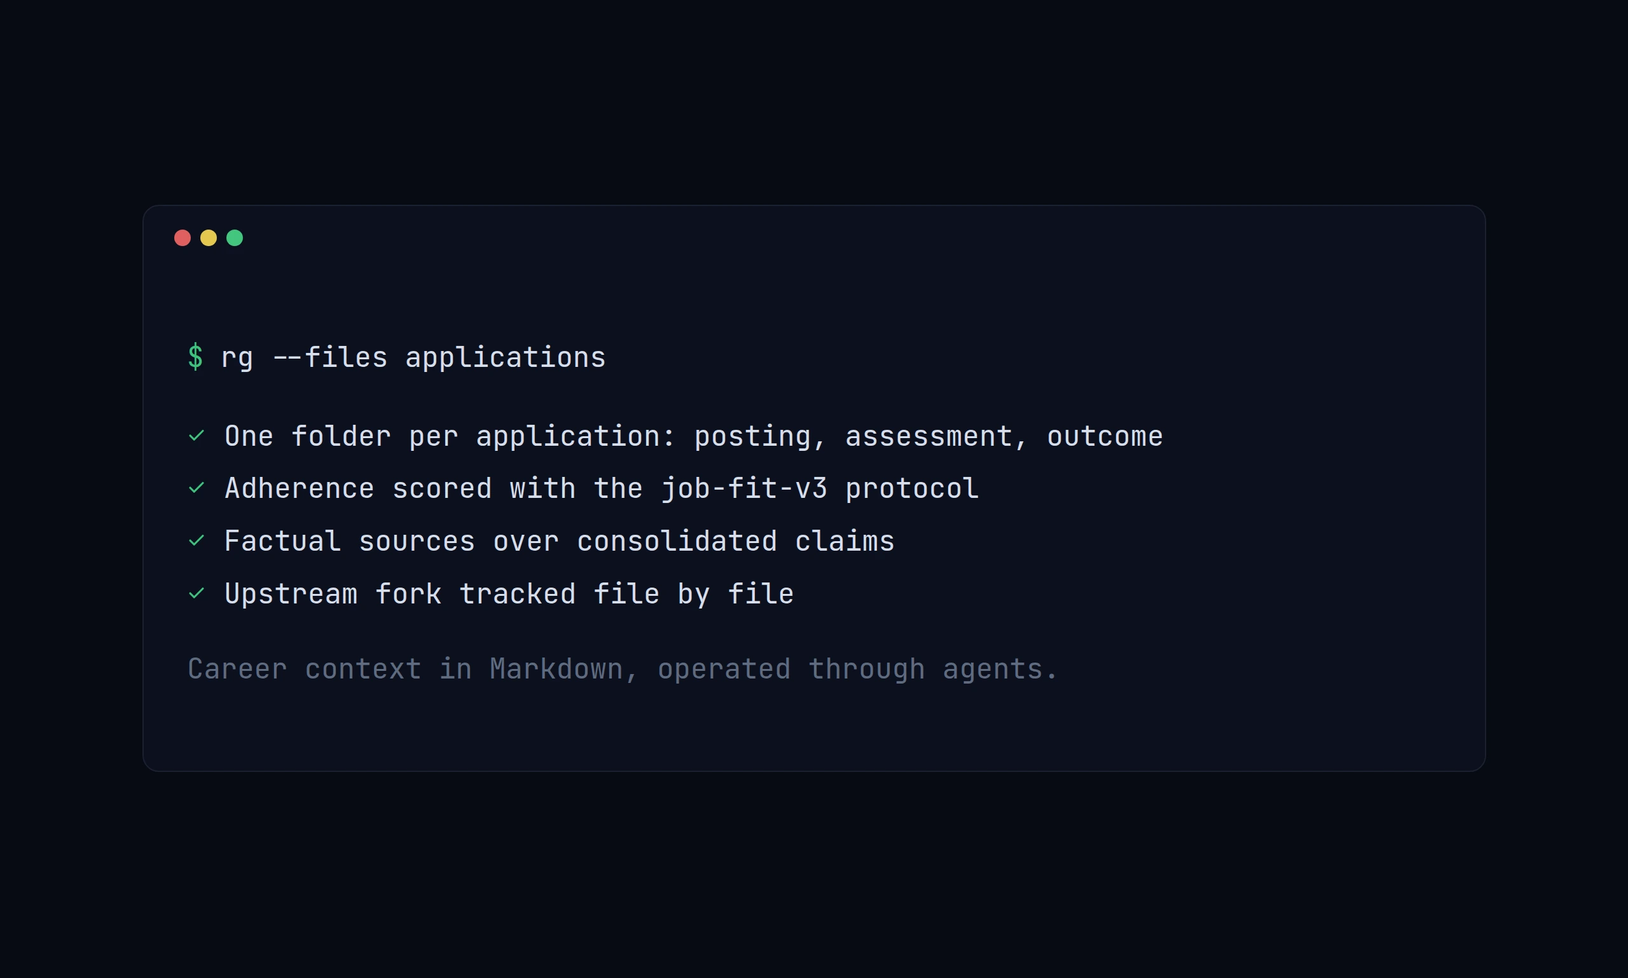
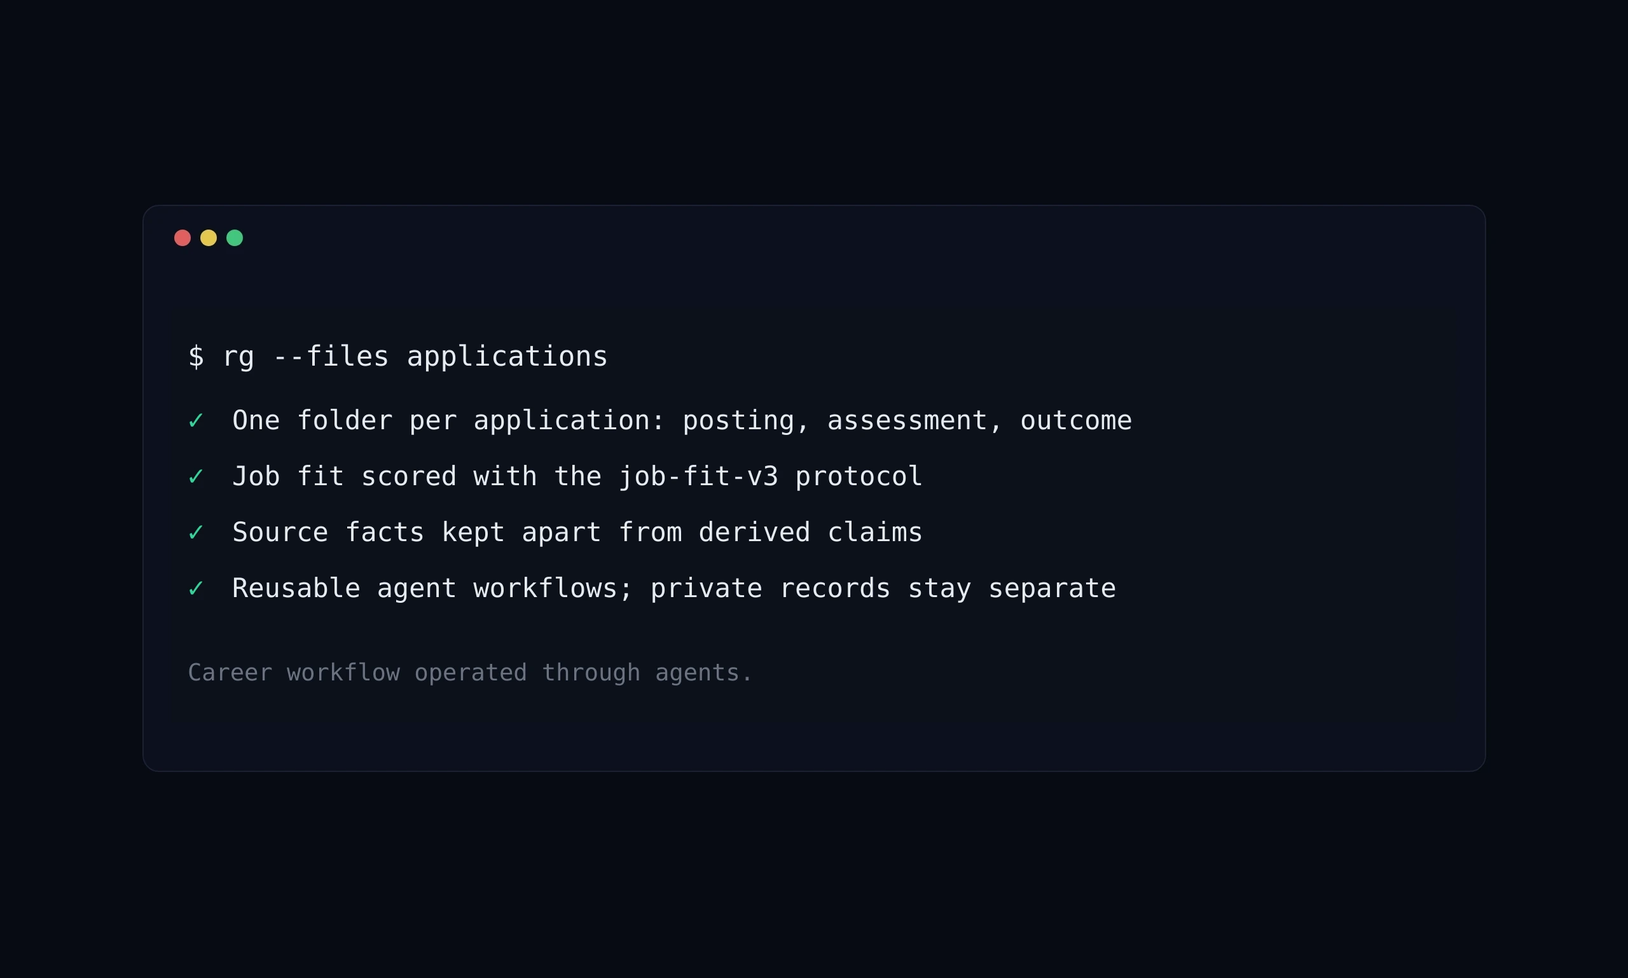
content(projects): align cases with current project facts (#61)

diff --git a/src/content/projects/skills/index.md b/src/content/projects/skills/index.md
@@ -1,19 +1,19 @@
 ---
 title: Engineering Skills
-description: Four open-source agent skills for engineering documentation, technical SEO, content review and web accessibility, with scoped sources and automated plugin releases.
+description: Three open-source agent skills for technical SEO, search content, and web accessibility, built around evidence and repeatable checks.
 date: 2026-10-16
 tags: AI agents, Developer tooling, Python, GitHub Actions, Accessibility, SEO
 link: https://github.com/andre-lmarinho/skills
 images:
   01-cover.webp:
-    alt: Engineering Skills installation command and four review workflows
+    alt: Terminal card with the installation command and names of the three current skills
 ---
 
 ## Context
 
-An agent reviewing documentation needs to check commands against the implementation. An accessibility review needs to exercise the interaction. A search audit needs to distinguish a page that can be fetched from one that has actually been indexed. These tasks need different evidence, even when they happen in the same repository.
+I built this collection around a simple rule: each review should use evidence that fits the question. A technical SEO audit must distinguish a page that can be fetched from one that is indexed. A content review checks whether claims are useful and supported. An accessibility review tests the interaction, not just its markup.
 
-I built Engineering Skills to make those review decisions reusable across projects. The collection has four independently installable skills: `engineering-docs`, `technical-seo`, `search-content-review` and `web-accessibility`.
+The repository now contains three independent skills: `technical-seo`, `search-content-review`, and `web-accessibility`. Each can be installed on its own through the Skills CLI, or used through the collection plugin.
 
 ## My role
 
@@ -21,14 +21,13 @@ I created and maintain the collection. I defined each skill's scope, wrote its w
 
 ## Scope
 
-The skills cover different engineering tasks:
+The skills turn those principles into distinct workflows:
 
-- `engineering-docs` checks what an engineer needs to do or understand, preserving contracts such as defaults, precedence and failure behavior while shortening the prose.
 - `technical-seo` follows public pages from source to HTTP response and rendered output, including crawling controls, metadata, social images and optional Markdown discovery.
 - `search-content-review` checks whether a passage contributes useful information, supports its claims and remains accurate when read outside its surrounding page.
 - `web-accessibility` reviews complete interactions using applicable WCAG criteria, browser behavior and assistive technology when available.
 
-Each skill includes its own references. Users can install one through the Skills CLI or install the collection as a plugin. The public repository also provides a [versioned release ZIP](https://github.com/andre-lmarinho/skills/releases/tag/v0.1.0). That October 15 release predates the October 16 revisions linked in this case.
+Each skill includes references for the parts of a review that need more detail. The current branch removed `engineering-docs` on November 22, 2026. The earlier [v0.1.0 release ZIP](https://github.com/andre-lmarinho/skills/releases/tag/v0.1.0) predates that change and contains the previous four-skill collection.
 
 ## Decisions
 
@@ -36,17 +35,17 @@ Each skill includes its own references. Users can install one through the Skills
 
 The main `SKILL.md` contains the decisions that apply throughout a review. Conditional details live beside it. For example, technical SEO has separate references for media and agent discovery; accessibility has checks grouped by the affected interface.
 
-This lets each skill work alone. A documentation review does not require installing the search or accessibility skills, and the main workflow does not reproduce every supporting checklist. The [repository conventions](https://github.com/andre-lmarinho/skills/blob/289a6e5a73cede26a6002cdac7d4dd3c7d1c2f84/AGENTS.md) define that boundary.
+This lets each skill work alone, without making a review depend on the other skills or copying every supporting checklist into the main workflow. The [repository conventions](https://github.com/andre-lmarinho/skills/blob/f8239030fb7e24444e42b53a08ce0aaeb06c2bd2/AGENTS.md) define that boundary.
 
 ### Preserve the authority and scope of each source
 
 The source files distinguish standards, informative guidance, provider behavior and local review judgments. A technique demonstrated by one website does not become a requirement for every website.
 
-The [technical SEO reference](https://github.com/andre-lmarinho/skills/blob/289a6e5a73cede26a6002cdac7d4dd3c7d1c2f84/skills/technical-seo/AGENT-DISCOVERY.md) treats `llms-full.txt` as a choice for a bounded reading task. The [accessibility checks](https://github.com/andre-lmarinho/skills/blob/289a6e5a73cede26a6002cdac7d4dd3c7d1c2f84/skills/web-accessibility/CHECKS.md) require checking a criterion's applicability and exceptions before reporting a failure.
+The [technical SEO reference](https://github.com/andre-lmarinho/skills/blob/f8239030fb7e24444e42b53a08ce0aaeb06c2bd2/skills/technical-seo/AGENT-DISCOVERY.md) treats `llms-full.txt` as a choice for a bounded reading task. The [accessibility checks](https://github.com/andre-lmarinho/skills/blob/f8239030fb7e24444e42b53a08ce0aaeb06c2bd2/skills/web-accessibility/CHECKS.md) require checking a criterion's applicability and exceptions before reporting a failure.
 
 ### Test distribution separately from review quality
 
-The validation workflow checks skill metadata and plugin manifests. Three [Python tests](https://github.com/andre-lmarinho/skills/blob/289a6e5a73cede26a6002cdac7d4dd3c7d1c2f84/scripts/test_package.py) check archive contents, synchronized versions and rejection of mismatched manifests or symlinks. These checks can catch a broken package; they cannot establish that an agent will make the right recommendation.
+The validation workflow checks skill metadata and plugin manifests. Three [Python tests](https://github.com/andre-lmarinho/skills/blob/f8239030fb7e24444e42b53a08ce0aaeb06c2bd2/scripts/test_package.py) check archive contents, synchronized versions and rejection of mismatched manifests or symlinks. These checks can catch a broken package; they cannot establish that an agent will make the right recommendation.
 
 For changes to a skill's decisions, the contribution instructions require an independent agent to exercise a realistic task in a temporary workspace. Those evaluations are a review procedure; the repository does not contain a repeatable behavioral test suite.
 
@@ -54,6 +53,6 @@ For changes to a skill's decisions, the contribution instructions require an ind
 
 The release workflow validates the repository, synchronizes the portable and Claude-compatible manifest versions, builds the ZIP, and pushes the release commit and tag atomically. It checks whether `main` changed during preparation and stops if the release would use an outdated base.
 
-The [workflow](https://github.com/andre-lmarinho/skills/blob/289a6e5a73cede26a6002cdac7d4dd3c7d1c2f84/.github/workflows/release.yml) publishes GitHub releases. Official directory submissions still depend on their separate account and review processes. I kept those boundaries explicit in the [release documentation](https://github.com/andre-lmarinho/skills/blob/289a6e5a73cede26a6002cdac7d4dd3c7d1c2f84/docs/releasing.md).
+The [workflow](https://github.com/andre-lmarinho/skills/blob/f8239030fb7e24444e42b53a08ce0aaeb06c2bd2/.github/workflows/release.yml) publishes GitHub releases. Official directory submissions still depend on their separate account and review processes. I kept those boundaries explicit in the [release documentation](https://github.com/andre-lmarinho/skills/blob/f8239030fb7e24444e42b53a08ce0aaeb06c2bd2/docs/releasing.md).
 
 The implementation and its limits are covered in [the technical note on skill design and validation](/posts/engineering-skills-evidence-and-checks).

diff --git a/src/content/projects/my-career/index.md b/src/content/projects/my-career/index.md
@@ -1,33 +1,33 @@
 ---
 title: my-career
-description: Career context in Markdown operated through agents — evidence-backed source documents, deterministic job-fit scoring, per-application records and a fork triaged against its upstream, being prepared for an open release.
+description: A career workflow built on reusable agent skills, evidence-backed records, job-fit scoring, and application tracking.
 date: 2026-07-22
 tags: AI agents, Markdown, Python, Typst, Documentation
 images:
   01-cover.webp:
-    alt: Terminal card listing retrieval, scoring, portability and fork provenance highlights of the career context repository
+    alt: Terminal card summarizing application records, job-fit scoring, source documents, and the separation between agent workflows and private career records
 ---
 
 ## Context
 
-A job search produces documents everywhere: résumés in PDF, cover letters in a text editor, job postings in ten different portals, application outcomes in an inbox, career history in the head of the person who lived it. When an agent writes a letter or evaluates a posting, it needs to know which documents support the claims it makes.
+A job search spreads career facts, résumés, job postings, and outcomes across different files and services. An agent needs both reliable records and clear rules for how to use them.
 
-I built my career context as a single Markdown repository that an agent can operate through chat. It separates what happened from what is claimed about it, scores opportunities with a defined protocol, and keeps every application as a record instead of an intention. Skills route each task, scripts handle the arithmetic, and the person remains the source of authority for facts.
+I built the workflow in `agent-infra`, a codebase of reusable professional skills and support tools. It uses my separate, private `my-context` repository for career facts, derived documents, and application records. This keeps personal data outside the reusable infrastructure while letting an agent work with it through chat.
 
 ## My role
 
-I created and maintain the repository for my own search. I adapted the original fork of [MadsLorentzen/ai-job-search](https://github.com/MadsLorentzen/ai-job-search) into my own workflows, wrote the job-application skill and its reference set, defined the scoring protocol, and implemented the supporting scripts.
+I created and maintain `agent-infra` for my own career workflow. I defined shared rules for evidence, privacy, and writing; built skills for professional context, branding, content, and applications; and implemented the job-fit and vacancy-record scripts.
 
 ## Scope
 
-The repository covers a full search workflow:
+The workflow spans the infrastructure and its configured data repository:
 
-- **Context documents** — a hierarchy that distinguishes factual sources (experiences, projects, events) from consolidated summaries and derived pieces such as résumés, letters and LinkedIn material, with selective retrieval procedures that let an agent locate the section answering a question instead of reading the whole repository;
+- **Context documents** — a hierarchy in `my-context` that distinguishes factual sources (experiences, projects, events) from summaries and derived pieces such as résumés, letters, and LinkedIn material;
 - **Opportunity assessment** — the `job-fit-v3` protocol classifies each requirement and produces an adherence score, a coverage figure and unmet required gaps, with results stored in the application record;
 - **Application records** — one folder per application with the posting, the assessment and the outcome; records are located by path and frontmatter, not by conversation memory;
 - **Derived materials** — résumé bases for four tracks in Portuguese and English as source files compiled to PDF with Typst, platform form snippets, letters, and a self-contained portable profile document readable outside the repository;
-- **Two agent skills** — the `job-application-assistant` skill with fifteen reference documents, scripts and tests, plus a LinkedIn content skill bundle reused for publishing;
-- **Maintenance tooling** — skill linting, security checks, unit tests for the scoring and validation scripts, and provenance tracking for fork contents.
+- **Reusable agent skills** — `professional-context`, `personal-brand`, `professional-content`, `career-applications`, and `docs-maintenance` in `agent-infra`, with focused references loaded by task;
+- **Validation** — tests for job-fit calculations and vacancy records, checks for shared writing rules, and a script for plain-English guidance.
 
 The repository has operated my own search since July 2026.
 
@@ -49,14 +49,14 @@ The split keeps arithmetic deterministic and reviewable while the judgment stays
 
 Each application lives in its own folder with a posting, an assessment and an outcome. Frontmatter fields such as source and description are mandatory, and a sent application is only marked as applied when I confirm the submission — résumés prepared without confirmation do not become applications. The pattern preserves PDFs and snapshots so each record can reconstruct what actually happened.
 
-### Audit the fork, file by file
+### Keep reusable workflows apart from personal records
 
-The starting point was an open-source job-search skill collection, but the workflows, language and domain diverged early. An upstream registry pins the incorporated commit and records, for each original file, whether it was kept, adapted, replaced or excluded, with a reason. Scripts compare the mapped paths against the upstream tree so new, renamed and removed files must appear in the triage.
+`agent-infra` holds the methods; `my-context` holds the evidence and application history. The configuration connects them without copying personal records into the reusable workflow repository.
 
-This is what makes an eventual open release tractable: what came from upstream, what is mine, and what must not ship are three answers the repository can show.
+The boundary lets the skills work with configured sources while keeping private facts and submitted materials in their existing location.
 
 ### Validate the structure; test the workflow by use
 
 Lint, security checks and unit tests verify skill metadata, dangerous-content handling and scoring arithmetic, and check that résumé sources still compile to the expected PDFs. None of these prove the workflows behave well: a change to a skill's flow requires exercising a realistic task in a temporary workspace, without handing the reviewer the expected answer.
 
-The repository is private and carries my application history. A planned public release keeps the skeleton — skills, scripts, templates and documentation — and removes the personal records, so contributors can reuse the infrastructure for their own searches.
+The `my-context` repository contains private career and application records. The case describes `agent-infra` and its configured workflow, not a public copy of those personal records.

diff --git a/src/content/projects/northstar/index.md b/src/content/projects/northstar/index.md
@@ -1,6 +1,6 @@
 ---
 title: Northstar
-description: Product analytics for following user behavior through to revenue, conversion, and experiments, with the context behind each result.
+description: Product analytics that connects user behavior to revenue, conversion, and activation, with the comparison and context behind each result.
 date: 2026-04-12
 tags: Next.js, ClickHouse, Data visualization, SVG
 images:
@@ -16,21 +16,21 @@ images:
 
 ## Context
 
-Event counts alone leave business questions unanswered. A team can know that thousands of people used a feature and still not know whether the behavior changed revenue, conversion, or activation.
+Event counts alone leave business questions unanswered. A team can know that people used a feature and still not know whether the behavior changed revenue, conversion, or activation.
 
-Northstar organized the product around three objects: an event is a raw fact, a signal is a behavior worth naming, and an outcome is the business result associated with it. Where an experiment included a holdout, the product compared groups to estimate incremental lift rather than presenting correlation as the answer.
+Northstar organized the product around three distinct objects: an event is a raw fact, a signal is a behavior worth naming, and an outcome is the business result associated with it. For experiments with a holdout, the product compared groups to estimate incremental lift rather than treating correlation as proof.
 
 The data model and dashboard had to carry the same definitions, so readers could see how a result was calculated and which comparison supported it.
 
 ## My role
 
-On a three-person team, I defined the architecture and stack, led technical delivery, and reviewed pull requests. I designed and built the dashboard and shared backend and telemetry infrastructure work with the other developers.
+On a three-person team, I defined the architecture and stack, led technical delivery, and reviewed pull requests. I designed and built the dashboard, and contributed to the backend and telemetry infrastructure with the other developers.
 
 ## Scope
 
 The product covered:
 
-- a north-star metric with its time window, trend, and growth driver;
+- a guiding metric with its time window, trend, and growth driver;
 - revenue, conversion, activation, and time-to-value outcome cards;
 - the relationship between signals, users, conversion, influenced value, and lift;
 - event and conversion trends, segments, sources, countries, and activation funnels;
@@ -38,7 +38,7 @@ The product covered:
 - source setup for SDK, server, webhook, and CSV ingestion;
 - bespoke SVG charts in Next.js, React, and TypeScript.
 
-The team used ClickHouse for events and analytical queries, and PostgreSQL for workspaces, sources, signals, outcomes, and experiment definitions. SDK events, server events, webhooks, and CSV imports fed the same event model.
+The team used ClickHouse for events and analytical queries, and PostgreSQL for workspaces, sources, signals, outcomes, and experiment definitions. SDK events, server events, webhooks, and CSV imports fed the same event model. I also worked with the team on telemetry ingestion and the backend that supported the dashboard.
 
 ## Decisions
 

diff --git a/src/content/projects/kestrel/index.md b/src/content/projects/kestrel/index.md
@@ -1,6 +1,6 @@
 ---
 title: Kestrel
-description: An agent for Outlook email and calendars, with controls over what it can do and which actions need approval.
+description: An agent for Outlook email, calendars, files, notes, and messages, with visible permissions and approval for sensitive actions.
 date: 2026-01-22
 tags: TypeScript, Node.js, MCP, Microsoft Graph, SSE
 images:
@@ -16,9 +16,9 @@ images:
 
 ## Context
 
-An agent connected to email and calendars needs different permissions for reading a message, drafting a reply, sending it, and deleting an event.
+An agent connected to Microsoft accounts needs different permissions to search a message, draft a reply, send it, or change a calendar. The same boundary matters when it can reach files and notes.
 
-The client product brought work and personal Outlook accounts into one conversation. The frontend had to make two things clear at all times: what the agent was trying to do, and whether it was allowed to do it without asking.
+The client product brought work and personal Microsoft accounts into one conversation across Outlook, Calendar, OneDrive, OneNote, and Teams. The interface had to make two things clear: what the agent was trying to do, and whether it could act without asking.
 
 ## My role
 
@@ -28,21 +28,21 @@ I led technical delivery for the three-person team, chose the architecture and s
 
 The team delivered:
 
-- natural-language email and calendar workflows across several Outlook accounts;
+- natural-language search and communication workflows across Outlook, Calendar, OneDrive, OneNote, and Teams;
 - visible tool calls for searches, drafts, free-time checks, sends, and calendar changes;
 - per-tool policies of Auto, Ask, or Off;
-- mandatory approval for sensitive external actions;
+- recorded human approval for sensitive external actions, including sends, scheduling, and deletions;
 - connected-account and MCP-server management;
 - an audit timeline for agent activity;
 - streamed agent output and tool state over SSE.
 
-The Next.js application called a tRPC API. Separate Node.js MCP services connected to Microsoft Graph through OAuth2 with PKCE, incremental synchronization, and webhooks.
+The Next.js application called a tRPC API. Separate Node.js MCP services connected to Microsoft Graph through OAuth2 with PKCE, incremental synchronization, and webhooks. The agent received defined tools rather than a Microsoft Graph token; refresh tokens were encrypted, and access scopes were limited by account.
 
 ## Decisions
 
 ### Turn permissions into interface state
 
-Each tool displayed its policy, Auto, Ask, or Off, so users could see what was allowed before reaching an approval prompt. Sensitive actions remained visibly distinct.
+Each tool displayed its policy, Auto, Ask, or Off, so users could see what was allowed before an action. Sends, scheduling, and deletions needed approval, with the decision recorded in the activity history.
 
 ### Render tool calls as first-class objects
 

diff --git a/src/content/projects/anvil/index.md b/src/content/projects/anvil/index.md
@@ -1,6 +1,6 @@
 ---
 title: Anvil
-description: A browser IDE for working with an AI agent, inspecting its changes, and running the result in the same workspace.
+description: A browser IDE where an AI agent edits a project and developers inspect, run, and reverse its changes in one workspace.
 date: 2026-05-22
 tags: TypeScript, WebSockets, Git, xterm.js
 images:
@@ -16,11 +16,11 @@ images:
 
 ## Context
 
-The client needed a browser workspace where a developer could ask an agent for a change, inspect the files it edited, and run the result. The editor, terminal, and preview had to stay in sync as the agent worked; a stale panel could show code that was no longer running.
+The client needed a browser workspace where a developer could ask an agent to change a project, inspect the files it touched, and run the result. The editor, terminal, and preview had to stay in sync; otherwise, a panel could show code that was no longer running.
 
 ## My role
 
-I led technical delivery on a three-person team, defined the architecture and stack, and reviewed the other developers' pull requests. I built the three-panel workspace and worked with the team on the backend and infrastructure that connected the agent, project files, and running processes.
+I led technical delivery on a three-person team, defined the architecture and stack, and reviewed the other developers' pull requests. I built the three-panel workspace and contributed to the sandbox infrastructure that connected the agent, project files, and running processes.
 
 ## Scope
 
@@ -34,7 +34,7 @@ The team delivered:
 - Git checkpoints for agent steps;
 - controls for running and deploying the project.
 
-Each project ran in an isolated, temporary environment. Project data, sessions, tool calls, and checkpoints were persisted, while WebSockets carried terminal output, file events, and agent updates.
+Each project ran in an isolated, temporary environment. A Go sandbox manager orchestrated execution on Firecracker. Project data, sessions, tool calls, and checkpoints were persisted, while WebSockets carried terminal output, file events, and agent updates.
 
 ## Decisions
 
@@ -48,7 +48,7 @@ The interface had to keep file events, terminal output, and agent progress in sy
 
 ### Make reversibility visible
 
-Each agent step became a Git checkpoint that the developer could inspect or return to from the interface.
+Each agent step became a Git checkpoint the developer could inspect or return to from the interface. The product also asked for confirmation before destructive commands.
 
 ## Disclosure
 
